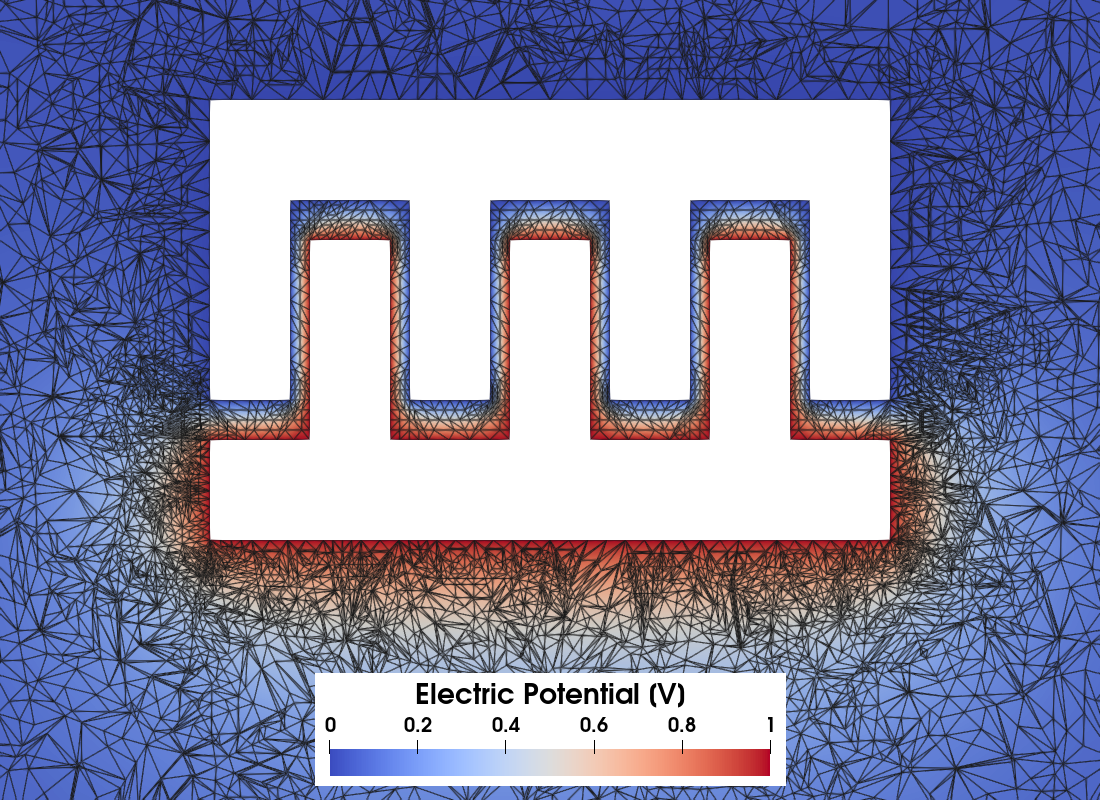
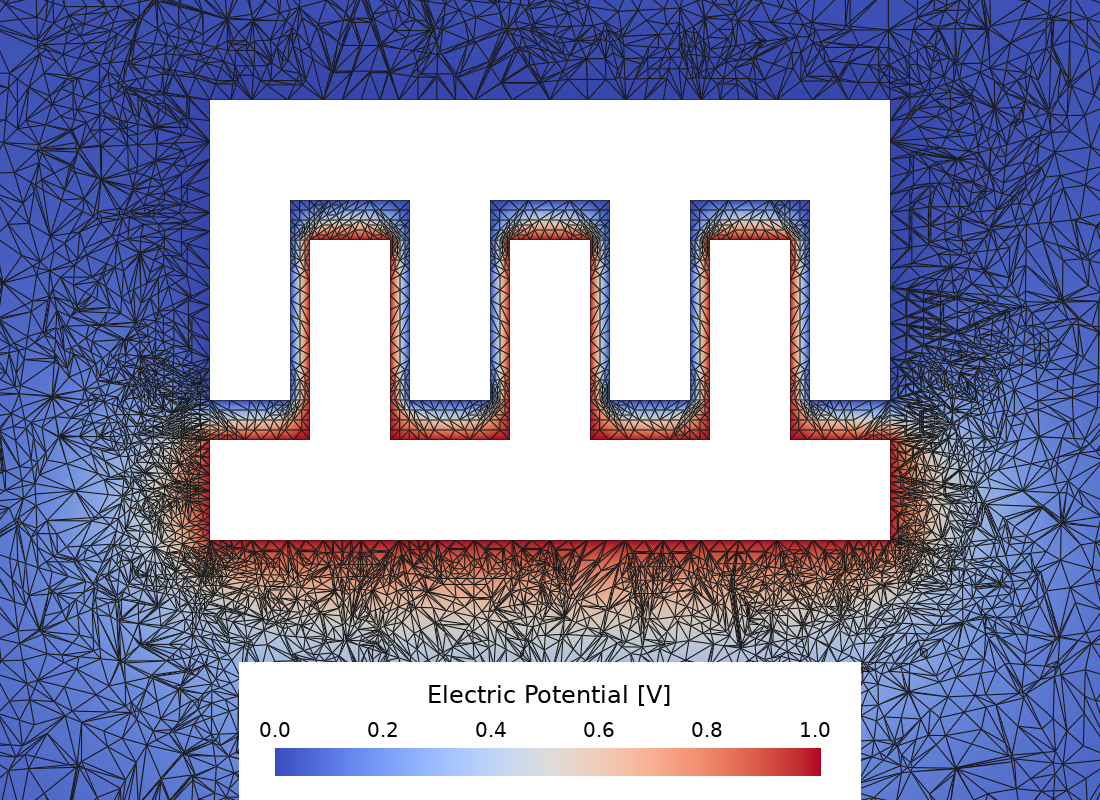
Render the Ren 2014 scenes with PyVista

diff --git a/Electromagnetics/Ren_2014_MEMS_Comb_Drive/case.py b/Electromagnetics/Ren_2014_MEMS_Comb_Drive/case.py
@@ -180,7 +180,7 @@ class Ren2014MemsCombDrive(ValidationCase):
             for i in range(max_refinements):
                 self.runner.advance(2)
 
-                # The initial mesh, shown in the mesh image of create_scene.py.
+                # The initial mesh, shown in the mesh image of create_scenes().
                 if i == 0 and xshift == self.xshifts[0]:
                     vis.save(order=2)
 
@@ -276,6 +276,56 @@ class Ren2014MemsCombDrive(ValidationCase):
             ylabel="Capacitance [fF]",
             path=f"{self.results_path / 'Capacitance_Vs_Xshift.png'}",
         )
+
+    def create_scenes(self):
+        # The fields exported by solve(): the potential on the initial (0) and the refined (1)
+        # mesh of the zero shift, then on the refined mesh of every further shift i (i + 1).
+        from casekit.pyvista_scene import FieldExportReader, add_colorbar, create_scene, gif
+
+        reader = FieldExportReader(self.dir_path)
+        field = dict(scalars="Electric Potential", clim=(0.0, 1.0))
+        colorbar = dict(n_labels=6, location="bottom", font_size=20)
+        # The plane through the combs.
+        origin, normal = (11e-6, 2e-6, 17e-6), (0.0, 1.0, 0.0)
+
+        # The section through the combs at the zero shift with the mesh edges, on the initial
+        # and the refined mesh, seen from above.
+        for index in (0, 1):
+            domain = reader.read(index)["Domain"]
+            scene = create_scene((1100, 800))
+            actor = scene.add_mesh(
+                domain.slice(normal=normal, origin=origin),
+                show_edges=True,
+                edge_color=(0.1, 0.1, 0.1),
+                line_width=1,
+                **field,
+            )
+            scene.camera_position = [(15e-6, 1.0, 17e-6), (15e-6, 2e-6, 17e-6), (-1, 0, 0)]
+            scene.camera.parallel_scale = 2e-5
+            add_colorbar(scene, actor, "Electric Potential [V]", boxed=True, **colorbar)
+            scene.show(screenshot=self.results_path / f"Scene_Electric_Potential_{index}_Mesh.png")
+
+        # Animation: the potential on the refined mesh, clipped through the combs, from the
+        # largest shift to zero, as the combs are pulled together when the voltage is applied.
+        scene = create_scene((1100, 800))
+
+        def clipped(shift):
+            domain = reader.read(shift + 1)["Domain"]
+            return domain.clip(normal=normal, origin=origin, invert=True)
+
+        last = len(self.xshifts) - 1
+        actor = scene.add_mesh(clipped(last), name="field", **field)
+        scene.view_vector((1, 1, 1), viewup=(0, 1, 0))
+        scene.camera.zoom(1.15)
+        # Room for the color bar below: the camera moves down along its up direction.
+        shift = -8e-6 * numpy.array(scene.camera.up)
+        scene.camera.focal_point += shift
+        scene.camera.position += shift
+        add_colorbar(scene, actor, "Electric Potential [V]", **colorbar)
+        with gif(scene, self.results_path / "Electric_Potential.gif", fps=5) as write_frame:
+            for shift in reversed(range(len(self.xshifts))):
+                scene.add_mesh(clipped(shift), name="field", **field)
+                write_frame()
 
 
 if __name__ == "__main__":

diff --git a/casekit/pyvista_scene.py b/casekit/pyvista_scene.py
@@ -32,6 +32,7 @@ from vtkmodules.vtkChartsCore import vtkChartLegend, vtkPlotPoints
 from vtkmodules.vtkCommonDataModel import vtkCompositeDataSet
 from vtkmodules.vtkIOXML import vtkXMLPartitionedDataSetCollectionReader
 from vtkmodules.vtkRenderingAnnotation import vtkScalarBarActor
+from vtkmodules.vtkRenderingCore import vtkActor2D, vtkCoordinate, vtkPolyDataMapper2D
 
 from casekit.plots import MUFEM_LABEL, PlotStyle
 
@@ -103,13 +104,15 @@ def add_colorbar(
     location: str = "right",
     font_size: int = 26,
     scale: float = 1.0,
+    boxed: bool = False,
 ) -> vtkScalarBarActor:
     """Color bar of `actor` in the active renderer with `n_labels` labels from the lowest to the
     highest value of its range (the clim of the mesh). Vertical with the title along it, half as
     high as the renderer, at its right edge, centered ("right") or at the bottom ("lower
     right"); or horizontal with the labels and the title above it, half as wide as the renderer,
     centered at its bottom edge ("bottom"). Its box fits the labels and the title. The labels
-    show the values times `scale`, e.g. 1e-5 with a title in 10⁵ units. Move the camera to keep
+    show the values times `scale`, e.g. 1e-5 with a title in 10⁵ units; `boxed` draws it on a
+    white box, for a bar over the content. Move the camera to keep
     the content clear of it."""
     if location not in ("right", "lower right", "bottom"):
         raise ValueError(f"location {location!r} is not 'right', 'lower right' or 'bottom'")
@@ -163,8 +166,31 @@ def add_colorbar(
         bar.SetPosition(0.25, font_size / height)
         bar.SetWidth(0.5)
         bar.SetHeight(box / height)
+    if boxed:
+        # A white box behind the bar and its texts, padded by half a label width (the end
+        # labels stand out of the bar by that much) and the font size; VTK's own background of
+        # the bar has no padding.
+        (x, y), (w, h) = bar.GetPosition(), (bar.GetWidth(), bar.GetHeight())
+        pad_x, pad_y = (label_width / 2 + font_size) / width, font_size / height
+        scene.renderer.add_actor(
+            _rectangle(x - pad_x, y - pad_y, x + w + pad_x, y + h + pad_y), reset_camera=False
+        )
     scene.renderer.add_actor(bar)
     return bar
+
+
+def _rectangle(x0: float, y0: float, x1: float, y1: float) -> vtkActor2D:
+    """A white rectangle in fractions of the renderer, drawn over the scene."""
+    corners = [(x0, y0, 0.0), (x1, y0, 0.0), (x1, y1, 0.0), (x0, y1, 0.0)]
+    mapper = vtkPolyDataMapper2D()
+    mapper.SetInputData(pv.PolyData(np.array(corners), faces=[4, 0, 1, 2, 3]))
+    coordinate = vtkCoordinate()
+    coordinate.SetCoordinateSystemToNormalizedViewport()
+    mapper.SetTransformCoordinate(coordinate)
+    actor = vtkActor2D()
+    actor.SetMapper(mapper)
+    actor.GetProperty().SetColor(1.0, 1.0, 1.0)
+    return actor
 
 
 def _font(text_property, size: int):

diff --git a/Electromagnetics/Ren_2014_MEMS_Comb_Drive/README.md b/Electromagnetics/Ren_2014_MEMS_Comb_Drive/README.md
@@ -102,7 +102,7 @@ for xshift in self.xshifts:
     for i in range(max_refinements):
         self.runner.advance(2)
 
-        # The initial mesh, shown in the mesh image of create_scene.py.
+        # The initial mesh, shown in the mesh image of create_scenes().
         if i == 0 and xshift == self.xshifts[0]:
             vis.save(order=2)
 
@@ -127,8 +127,9 @@ the mesh of the corresponding shift. Meanwhile, the internal `for` loop refines 
 established mesh refinement algorithm. This loop continues until the number of mesh elements surpasses the
 empirically determined limit of `max_ncells`, which is set at 100,000. For each mesh file, we save the electric potential
 obtained on the final mesh, and for the zero shift also on the initial mesh, in the [VTK](https://vtk.org/) file format, allowing for
-subsequent visualization using [ParaView](https://www.paraview.org/) by [create_scene.py](create_scene.py)
-(run with `pvpython create_scene.py`, requires `ffmpeg`).
+subsequent visualization with [PyVista](https://pyvista.org/) by `create_scenes()` in [case.py](case.py)
+(run the case with `--scenes`, or with `--scenes-only` after a run; see
+[Scenes](https://github.com/Raiden-Numerics/mufem/blob/main/VALIDATION.md#scenes)).
 
 
 ## Results
@@ -157,7 +158,7 @@ becomes denser near the edges of the combs, where the electric potential changes
 <img src="results/Scene_Electric_Potential_1_Mesh.png" width="45%" />
 <br/>
 <br/>
-<em>Figure 3: A slice of the computational domain displaying the calculated electric field potential along with the mesh edges for two different meshes: (left) the initial mesh and (right) the mesh after several cycles of adaptive mesh refinement. The images are rendered by <a href="create_scene.py">create_scene.py</a>.</em>
+<em>Figure 3: A slice of the computational domain displaying the calculated electric field potential along with the mesh edges for two different meshes: (left) the initial mesh and (right) the mesh after several cycles of adaptive mesh refinement. The images are rendered by <code>create_scenes</code> in <a href="case.py">case.py</a>.</em>
 </div>
 <br/>
 
@@ -218,7 +219,7 @@ where the combs are pulled together when voltage is applied.
 <img src="results/Electric_Potential.gif" width="75%">
 <br/>
 <br/>
-<em>Figure 6: The distribution of electric potential for various shifts between the combs. The GIF animation is rendered by <a href="create_scene.py">create_scene.py</a>.</em>
+<em>Figure 6: The distribution of electric potential for various shifts between the combs. The GIF animation is rendered by <code>create_scenes</code> in <a href="case.py">case.py</a>.</em>
 </div>
 <br/>
 
